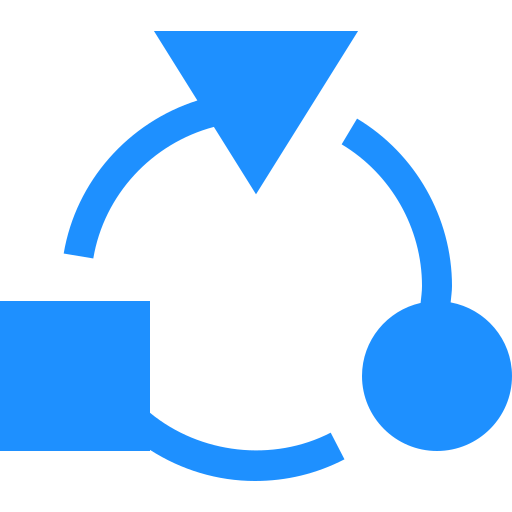
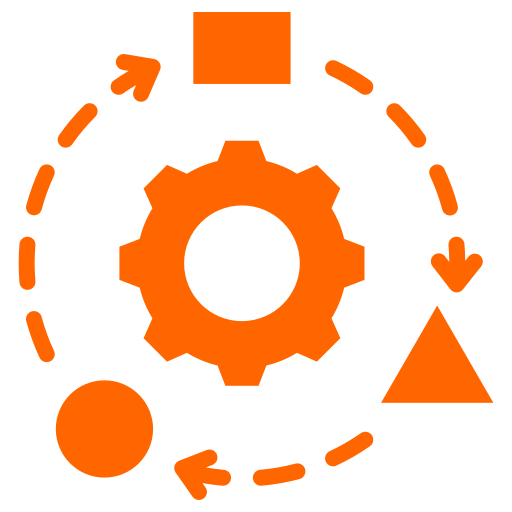
style: update image color to match theme and fix minor UI issues

diff --git a/static/css/skills.css b/static/css/skills.css
@@ -149,8 +149,8 @@ h3 img {
     /* flex-wrap: wrap; */
     width: auto;
     height: auto;
-    max-width: 170px;
-    max-height: 230px;
+    width: 180px;
+    height: 220px;
     text-align: justify;
     background-color: rgba(255, 255, 255, 0.6);
     border-radius: 2rem;

diff --git a/static/skills.js b/static/skills.js
@@ -4,7 +4,7 @@ function initializeSlider(sliderId) {
     let next = document.getElementById(`next-${sliderId}`);
     let prev = document.getElementById(`prev-${sliderId}`);
     
-    let active = 0;
+    let active = 2;
 
     function loadShow() {
         let stt = 0;
